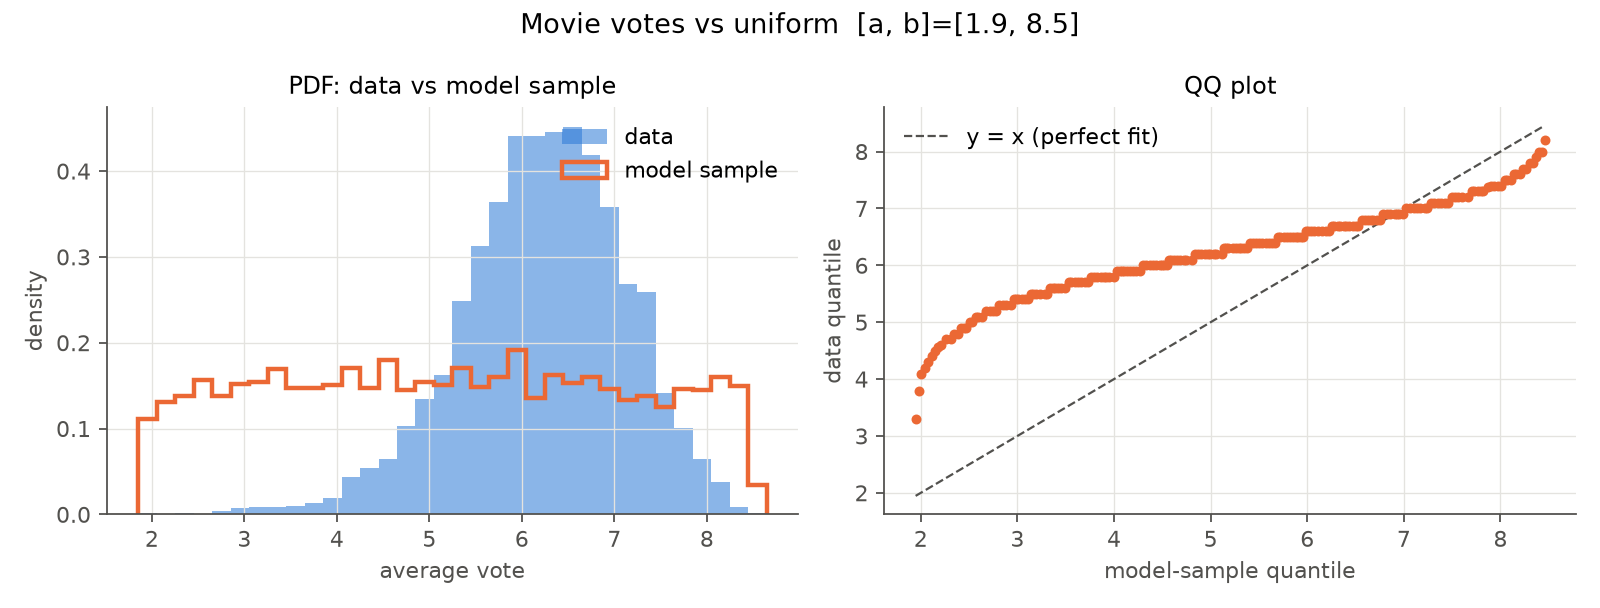
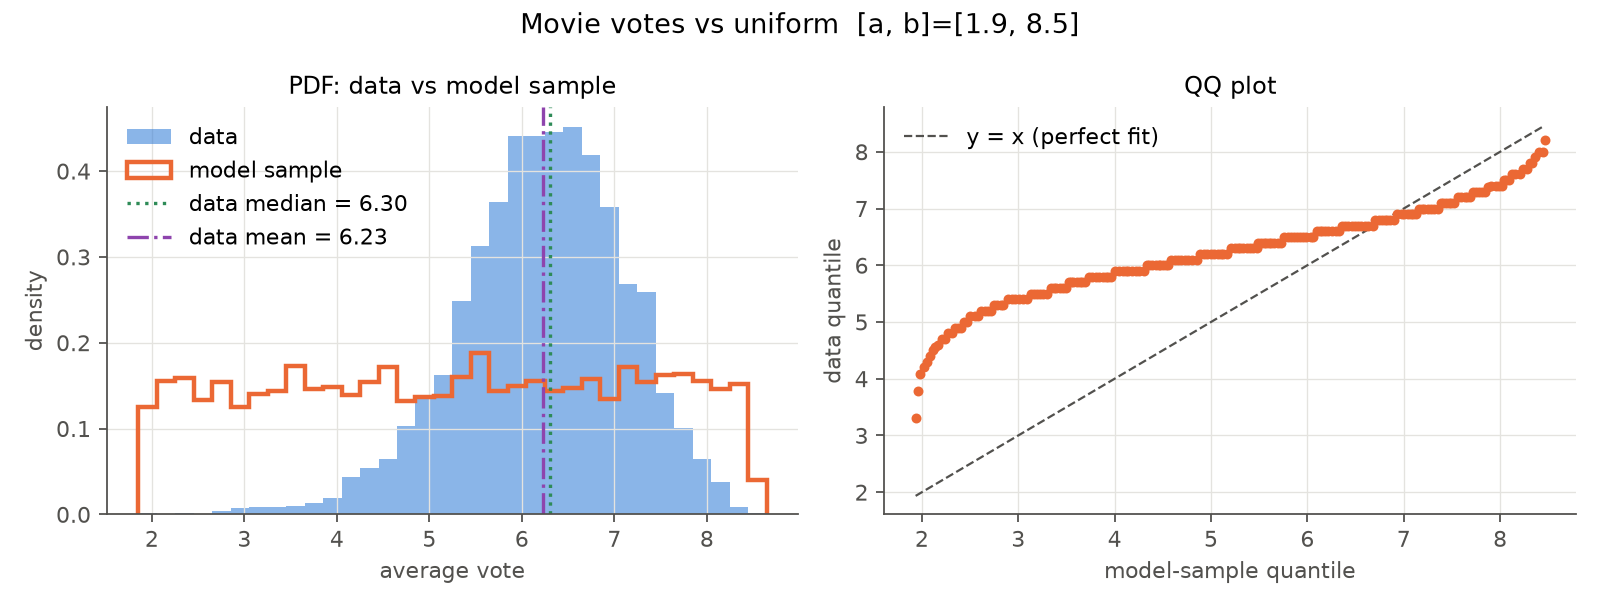
feat(hw2): eight-panel airport figures, 0-200 linear view, seed 20701313
- Airport data and model figures: PDF/PMF, CDF, CCDF and QQ on linear and
  log-log axes; linear panels cut at 200 routes with the share beyond printed.
- Data median and mean in every distribution panel (airport and movie);
  value of each CDF/CCDF at x = 1 on the model figures.
- Seed 20701313 (owner's student ID) for all model samples.

diff --git a/hw2/code/common.py b/hw2/code/common.py
@@ -23,8 +23,11 @@ from scipy.stats import ks_2samp
 HW_DIR = Path(__file__).resolve().parent.parent
 DATA_DIR = HW_DIR / "00_doc"
 FIG_DIR = HW_DIR / "figures"
-SEED = 6330
+SEED = 20701313  # owner's student ID
 VOTE_VIEW_MAX = 20.0  # x-limit for movie PDFs; ratings live in [1, 10]
+# x-limit for linear-axis airport panels: 98% of airports have at most 200 routes, and the
+# log-log panels beside them show the full tail.
+ROUTE_VIEW_MAX = 200.0
 
 DATA_COLOR = "#2a78d6"
 MODEL_COLOR = "#eb6834"
@@ -114,20 +117,23 @@ def qq_panel(ax: plt.Axes, data: np.ndarray, sample: np.ndarray, log: bool) -> N
     ax.legend(loc="upper left")
 
 
-def save(fig: plt.Figure, name: str) -> None:
-    fig.tight_layout()
+def save(fig: plt.Figure, name: str, top: float = 1.0) -> None:
+    """top < 1 keeps a band free above the panels (for a figure-level legend)."""
+    fig.tight_layout(rect=(0, 0, 1, top))
     fig.savefig(FIG_DIR / f"{name}.png", dpi=160)
     plt.close(fig)
 
 
 def label_vlines(ax: plt.Axes, lines: list[tuple[float, str, str, str]], is_log: bool,
-                 at_bottom: bool = False) -> None:
+                 at_bottom: bool = False, top_label: float = 0.6) -> None:
     """Vertical reference lines labelled on the line itself instead of in a legend.
 
     On log axes the lines are far apart, so each label runs up its own line. On linear axes
-    4, 19.8 and 60 sit within a few millimetres of each other, so the labels are stacked to
-    the right with a short arrow back to their line.
+    the lines sit close together, so the labels are stacked to the right of the rightmost
+    line with a short arrow back to their own line. Call this after setting the x-limits.
     """
+    x_min, x_max = ax.get_xlim()
+    label_x = max(x for x, *_ in lines) + 0.1 * (x_max - x_min)
     at_top = blended_transform_factory(ax.transData, ax.transAxes)  # x in data, y in axes
     for i, (x, color, style, text) in enumerate(lines):
         ax.axvline(x, color=color, lw=1.5, ls=style)
@@ -136,23 +142,23 @@ def label_vlines(ax: plt.Axes, lines: list[tuple[float, str, str, str]], is_log:
             ax.text(x * 1.08, y, text, transform=at_top, rotation=90, ha="left", va=va,
                     color=color, fontsize=9, bbox=LABEL_BOX)
         else:
-            y = 0.6 - 0.13 * i  # mid-height: both linear panels are empty there on the right
-            ax.annotate(text, xy=(x, y), xycoords=at_top, xytext=(x + 120, y),
+            y = top_label - 0.13 * i  # stacked down from top_label (axes fraction)
+            ax.annotate(text, xy=(x, y), xycoords=at_top, xytext=(label_x, y),
                         textcoords=at_top, va="center", color=color, fontsize=9,
                         bbox=LABEL_BOX, arrowprops=dict(arrowstyle="-", color=color, lw=0.8))
 
 
 def plot_airport_data(x: np.ndarray) -> None:
-    # Rows: PDF, PMF, CDF/CCDF. Left column on linear axes shows how bunched up the data is;
-    # the right column on log-log axes spreads that bunch out so the shape and the tail can
-    # be read. Each row is the same quantity on the two kinds of axes.
-    fig, ((pdf_lin, pdf_log), (pmf_lin, pmf_log), (cdf_lin, ccdf_log)) = plt.subplots(
-        3, 2, figsize=(10, 10.5))
+    # Rows: PDF, PMF, CDF, CCDF. Left column on linear axes shows how bunched up the data
+    # is; the right column on log-log axes spreads that bunch out so the shape and the tail
+    # can be read. Each row is the same quantity on the two kinds of axes.
+    fig, ((pdf_lin, pdf_log), (pmf_lin, pmf_log), (cdf_lin, cdf_log), (ccdf_lin, ccdf_log)) = (
+        plt.subplots(4, 2, figsize=(10, 13)))
     n = len(x)
-    pdf_lin.hist(x, bins=np.arange(0, x.max() + 20, 20), weights=np.full(n, 1 / n),
+    pdf_lin.hist(x, bins=np.arange(0, ROUTE_VIEW_MAX + 5, 5), weights=np.full(n, 1 / n),
                  color=DATA_COLOR)
     pdf_lin.set(xlabel="routes per airport", ylabel="share of airports per bin",
-                title="PDF (histogram), linear axes (bin = 20 routes)")
+                title="PDF (histogram), linear axes (bin = 5 routes)")
     # Log-width bins; three decades in 15 bins leave no empty bin between integers.
     pdf_log.plot(*log_binned_pdf(x, np.logspace(0, 3, 16)), "o-", ms=4, color=DATA_COLOR)
     pdf_log.set(xscale="log", yscale="log", xlabel="routes per airport (log)",
@@ -170,6 +176,11 @@ def plot_airport_data(x: np.ndarray) -> None:
         share_axis.set_ylabel("share P(X = k)")
     cdf_lin.plot(*ecdf(x), color=DATA_COLOR, lw=2)
     cdf_lin.set(xlabel="routes per airport", ylabel="P(X ≤ x)", title="CDF, linear axes")
+    cdf_log.plot(*ecdf(x), color=DATA_COLOR, lw=2)
+    cdf_log.set(xscale="log", yscale="log", xlabel="routes per airport (log)",
+                ylabel="P(X ≤ x) (log)", title="CDF, log-log")
+    ccdf_lin.plot(*ccdf(x), color=DATA_COLOR, lw=2)
+    ccdf_lin.set(xlabel="routes per airport", ylabel="P(X ≥ x)", title="CCDF, linear axes")
     ccdf_log.plot(*ccdf(x), color=DATA_COLOR, lw=2)
     ccdf_log.set(xscale="log", yscale="log", xlabel="routes per airport (log)",
                  ylabel="P(X ≥ x) (log)", title="CCDF, log-log")
@@ -182,10 +193,14 @@ def plot_airport_data(x: np.ndarray) -> None:
     lines = [(median, MEDIAN_COLOR, ":", f"median = {median:g}"),
              (mean, MEAN_COLOR, "-.", f"mean = {mean:.1f}"),
              (60.0, INK, "--", f"x = 60 ({share_60:.0%} at or below)")]
-    for ax in (pdf_lin, pmf_lin, cdf_lin):
+    beyond = float(np.mean(x > ROUTE_VIEW_MAX))
+    for ax in (pdf_lin, pmf_lin, cdf_lin, ccdf_lin):
+        ax.set_xlim(0, ROUTE_VIEW_MAX)
+        ax.text(0.98, 0.12, f"{beyond:.1%} of airports have\nmore than {ROUTE_VIEW_MAX:g} routes",
+                transform=ax.transAxes, ha="right", color=INK, fontsize=9)
         label_vlines(ax, lines, is_log=False)
-    # Log PDF and CCDF run across the top, so their labels go in the empty bottom.
-    for ax in (pdf_log, pmf_log, ccdf_log):
+    # Log PDF, CDF and CCDF run across the top, so their labels go in the empty bottom.
+    for ax in (pdf_log, pmf_log, cdf_log, ccdf_log):
         label_vlines(ax, lines, is_log=True, at_bottom=ax is not pmf_log)
     fig.suptitle(f"Airport routes: empirical distribution (n = {n})")
     save(fig, "p1a_0_data")
@@ -200,42 +215,127 @@ def log_binned_pdf(v: np.ndarray, bins: np.ndarray) -> tuple[np.ndarray, np.ndar
     return centers[keep], density[keep]
 
 
+def mark_at_one(ax: plt.Axes, values: list[tuple[float, str]], is_log: bool) -> None:
+    """Dot and value at x = 1 for each curve: (height, colour).
+
+    x = 1 is the smallest route count, where the integer data jump to 20.9% at once while a
+    continuous model starts from 0; the KS gap of the power law sits here.
+    Labels are placed from the highest point down: the first goes above its dot (below it
+    if the dot is at the top of the panel); each next one goes above its own dot if that
+    leaves a line of space under the previous label, otherwise just below.
+    """
+    ax.autoscale_view()  # settle the limits now, so data-to-screen heights are final
+    points_per_pixel = 72 / ax.figure.dpi
+    previous_label = None  # height of the previous label, in points
+    for y, color in sorted(values, reverse=True):
+        if is_log and y <= 0:  # log axes cannot show 0: say so above the line labels
+            ax.text(1.1, 0.55, "0 at x = 1", transform=blended_transform_factory(
+                ax.transData, ax.transAxes), color=color, fontsize=8, bbox=LABEL_BOX)
+            continue
+        at = ax.transData.transform((1.0, y))[1] * points_per_pixel
+        if previous_label is None:
+            dy = -10 if y > 0.9 else 10
+        elif at + 10 <= previous_label - 13:
+            dy = 10
+        else:
+            dy = min(-10, previous_label - 13 - at)
+        previous_label = at + dy
+        ax.plot([1.0], [y], "o", ms=6, color=color, mec="white", zorder=5)
+        ax.annotate(f"{y:.3f} at x = 1", xy=(1.0, y), xytext=(8, dy), textcoords="offset points",
+                    color=color, fontsize=8, va="center", bbox=LABEL_BOX)
+
+
 def plot_airport_model(x: np.ndarray, key: str, label: str, sample: np.ndarray) -> None:
-    fig, ((axp, ax0), (ax1, ax2)) = plt.subplots(2, 2, figsize=(10, 7.2))
-    # PDF on log-log axes with log-width bins: the model sample is continuous, so the
-    # per-value mass used for the data-only figure does not apply here.
-    bins = np.logspace(0, 6, 37)
-    axp.plot(*log_binned_pdf(x, bins), "o-", ms=4, color=DATA_COLOR, label="data")
-    axp.plot(*log_binned_pdf(sample, bins), "o-", ms=4, color=MODEL_COLOR,
-             label="model sample")
-    outside = float(np.mean((sample < bins[0]) | (sample > bins[-1])))
+    # Rows: PDF, CDF, CCDF, QQ. Left column on linear axes, right column on log-log axes.
+    # The linear QQ keeps what the log one drops (model values <= 0, e.g. the normal's
+    # negative route counts); the log QQ spreads out a tail that spans several decades.
+    # Linear distribution panels are cut at ROUTE_VIEW_MAX; the share beyond is printed.
+    fig, axes = plt.subplots(4, 2, figsize=(10, 13))
+    (pdf_lin, pdf_log), (cdf_lin, cdf_log), (ccdf_lin, ccdf_log), (qq_lin, qq_log) = axes
+    x_hi = ROUTE_VIEW_MAX
+    x_lo = min(0.0, float(np.quantile(sample, 0.001)))
+    beyond_data, beyond_model = float(np.mean(x > x_hi)), float(np.mean(sample > x_hi))
+
+    # PDF, linear: density histograms with 20-route bins. Weights (not density=True) keep
+    # each curve normalised to its whole sample even where the axis cuts it off.
+    width = 5.0
+    bins = np.arange(np.floor(x_lo / width) * width, x_hi + width, width)
+    pdf_lin.hist(x, bins=bins, weights=np.full(len(x), 1 / (len(x) * width)),
+                 color=DATA_COLOR, alpha=0.55, label="data")
+    pdf_lin.hist(sample, bins=bins, weights=np.full(len(sample), 1 / (len(sample) * width)),
+                 histtype="step", color=MODEL_COLOR, lw=2, label="model sample")
+    pdf_lin.set(xlabel="routes per airport", ylabel="density",
+                title="PDF, linear axes (bin = 5 routes)")
+    # PDF, log-log: log-width bins; the model sample is continuous, so the per-value mass
+    # used for the data-only figure does not apply here.
+    log_bins = np.logspace(0, 6, 37)
+    pdf_log.plot(*log_binned_pdf(x, log_bins), "o-", ms=4, color=DATA_COLOR, label="data")
+    pdf_log.plot(*log_binned_pdf(sample, log_bins), "o-", ms=4, color=MODEL_COLOR,
+                 label="model sample")
+    outside = float(np.mean((sample < log_bins[0]) | (sample > log_bins[-1])))
     if outside > 0.01:
-        axp.text(0.98, 0.92, f"{outside:.0%} of the sample\nlies outside [1, 1e6]",
-                 transform=axp.transAxes, ha="right", va="top", color=INK)
-    axp.set(xscale="log", yscale="log", xlabel="routes per airport (log)",
-            ylabel="density (log)", title="PDF, log-log (log-width bins)")
-    axp.legend(loc="lower left")
-    # Linear-axis CDF, cut at the data's range; the share of the sample beyond it is stated.
-    ax0.plot(*ecdf(x), color=DATA_COLOR, lw=2, label="data")
-    ax0.plot(*ecdf(sample), color=MODEL_COLOR, lw=2, label="model sample")
-    x_hi = 1.1 * float(x.max())
-    ax0.set_xlim(min(0.0, float(np.quantile(sample, 0.001))), x_hi)
-    beyond = float(np.mean(sample > x_hi))
-    if beyond > 0.001:
-        ax0.text(0.98, 0.35, f"{beyond:.1%} of the sample\nlies beyond this axis",
-                 transform=ax0.transAxes, ha="right", color=INK)
-    ax0.set(xlabel="routes per airport", ylabel="P(X ≤ x)", title="CDF, linear axes")
-    ax0.legend(loc="lower right")
-    ax1.plot(*ccdf(x), color=DATA_COLOR, lw=2, label="data")
-    # CCDF over the FULL sample, then hide x <= 0 (log axis); filtering first would renormalise.
-    xs, ps = ccdf(sample)
-    ax1.plot(xs[xs > 0], ps[xs > 0], color=MODEL_COLOR, lw=2, label="model sample")
-    ax1.set(xscale="log", yscale="log", xlabel="routes per airport (log)",
-            ylabel="P(X ≥ x) (log)", title="CCDF: data vs model sample")
-    ax1.legend(loc="lower left")
-    qq_panel(ax2, x, sample, log=True)
-    fig.suptitle(f"Airport routes vs {label}")
-    save(fig, f"p1a_{key}")
+        pdf_log.text(0.98, 0.92, f"{outside:.0%} of the sample\nlies outside [1, 1e6]",
+                     transform=pdf_log.transAxes, ha="right", va="top", color=INK)
+    pdf_log.set(xscale="log", yscale="log", xlabel="routes per airport (log)",
+                ylabel="density (log)", title="PDF, log-log (log-width bins)")
+
+    # CDF and CCDF over the FULL sample; on log axes only x > 0 is drawn (filtering first
+    # would renormalise).
+    xs, cdf_s = ecdf(sample)
+    _, ccdf_s = ccdf(sample)
+    cdf_lin.plot(*ecdf(x), color=DATA_COLOR, lw=2, label="data")
+    cdf_lin.plot(xs, cdf_s, color=MODEL_COLOR, lw=2, label="model sample")
+    cdf_lin.set(xlabel="routes per airport", ylabel="P(X ≤ x)", title="CDF, linear axes")
+    cdf_log.plot(*ecdf(x), color=DATA_COLOR, lw=2, label="data")
+    cdf_log.plot(xs[xs > 0], cdf_s[xs > 0], color=MODEL_COLOR, lw=2, label="model sample")
+    cdf_log.set(xscale="log", yscale="log", xlabel="routes per airport (log)",
+                ylabel="P(X ≤ x) (log)", title="CDF, log-log")
+    ccdf_lin.plot(*ccdf(x), color=DATA_COLOR, lw=2, label="data")
+    ccdf_lin.plot(xs, ccdf_s, color=MODEL_COLOR, lw=2, label="model sample")
+    ccdf_lin.set(xlabel="routes per airport", ylabel="P(X ≥ x)", title="CCDF, linear axes")
+    ccdf_log.plot(*ccdf(x), color=DATA_COLOR, lw=2, label="data")
+    ccdf_log.plot(xs[xs > 0], ccdf_s[xs > 0], color=MODEL_COLOR, lw=2, label="model sample")
+    ccdf_log.set(xscale="log", yscale="log", xlabel="routes per airport (log)",
+                 ylabel="P(X ≥ x) (log)", title="CCDF, log-log")
+
+    for ax in (pdf_lin, cdf_lin, ccdf_lin):
+        ax.set_xlim(x_lo, x_hi)
+        ax.text(0.98, 0.35, f"beyond {x_hi:g} routes:\ndata {beyond_data:.1%}, "
+                f"model sample {beyond_model:.1%}", transform=ax.transAxes, ha="right",
+                color=INK, fontsize=9)
+    # Data median and mean in every distribution panel. These panels are too crowded for
+    # labels on the lines, so the lines are named once in the shared legend at the top.
+    median, mean = float(np.median(x)), float(x.mean())
+    for ax in (pdf_lin, pdf_log, cdf_lin, cdf_log, ccdf_lin, ccdf_log):
+        median_line = ax.axvline(median, color=MEDIAN_COLOR, lw=1.5, ls=":")
+        mean_line = ax.axvline(mean, color=MEAN_COLOR, lw=1.5, ls="-.")
+    handles, names = pdf_log.get_legend_handles_labels()
+    fig.legend(handles + [median_line, mean_line],
+               names + [f"data median = {median:g}", f"data mean = {mean:.1f}"],
+               loc="upper center", ncol=4, bbox_to_anchor=(0.5, 0.975))
+
+    # Value of each CDF / CCDF at x = 1, data above the model.
+    cdf_at_1 = [(float(np.mean(x <= 1)), DATA_COLOR), (float(np.mean(sample <= 1)), MODEL_COLOR)]
+    ccdf_at_1 = [(float(np.mean(x >= 1)), DATA_COLOR), (float(np.mean(sample >= 1)), MODEL_COLOR)]
+    for ax, values, is_log in ((cdf_lin, cdf_at_1, False), (cdf_log, cdf_at_1, True),
+                               (ccdf_lin, ccdf_at_1, False), (ccdf_log, ccdf_at_1, True)):
+        mark_at_one(ax, values, is_log)
+
+    qq_panel(qq_lin, x, sample, log=False)
+    qq_lin.set_title("QQ plot, linear axes")
+    qq_panel(qq_log, x, sample, log=True)
+    qq_log.set_title("QQ plot, log-log")
+    fig.suptitle(f"Airport routes vs {label}", y=0.995)
+    save(fig, f"p1a_{key}", top=0.955)
+
+
+def mark_center(ax: plt.Axes, x: np.ndarray) -> None:
+    """Data median and mean as vertical lines, named in the panel's legend. For the votes
+    they sit 0.07 apart, so labels on the lines would collide."""
+    ax.axvline(float(np.median(x)), color=MEDIAN_COLOR, lw=1.5, ls=":",
+               label=f"data median = {np.median(x):.2f}")
+    ax.axvline(float(x.mean()), color=MEAN_COLOR, lw=1.5, ls="-.",
+               label=f"data mean = {x.mean():.2f}")
 
 
 def plot_movie_data(x: np.ndarray) -> None:
@@ -245,6 +345,9 @@ def plot_movie_data(x: np.ndarray) -> None:
             title="PDF, histogram (bin = 0.1, one per vote value)")
     ax2.plot(*ecdf(x), color=DATA_COLOR, lw=2)
     ax2.set(xlabel="average vote", ylabel="P(X ≤ x)", title="CDF")
+    for ax in (ax1, ax2):
+        mark_center(ax, x)
+        ax.legend(loc="upper left")  # both panels are empty at low votes
     fig.suptitle(f"Movie votes: empirical distribution (n = {len(x)})")
     save(fig, "p1b_0_data")
 
@@ -264,10 +367,11 @@ def plot_movie_model(x: np.ndarray, key: str, label: str, sample: np.ndarray) ->
              histtype="step", color=MODEL_COLOR, lw=2, label="model sample")
     hidden = float(np.mean((sample < bins[0]) | (sample > bins[-1])))
     if hidden > 0.01:
-        ax1.text(0.98, 0.58, f"{hidden:.0%} of the sample\nlies beyond this axis",
+        ax1.text(0.98, 0.4, f"{hidden:.0%} of the sample\nlies beyond this axis",
                  transform=ax1.transAxes, ha="right", color=INK)
     ax1.set(xlabel="average vote", ylabel="density", title="PDF: data vs model sample")
-    ax1.legend(loc="upper right")
+    mark_center(ax1, x)
+    ax1.legend(loc="best")
     qq_panel(ax2, x, sample, log=hi == VOTE_VIEW_MAX)
     fig.suptitle(f"Movie votes vs {label}")
     save(fig, f"p1b_{key}")
